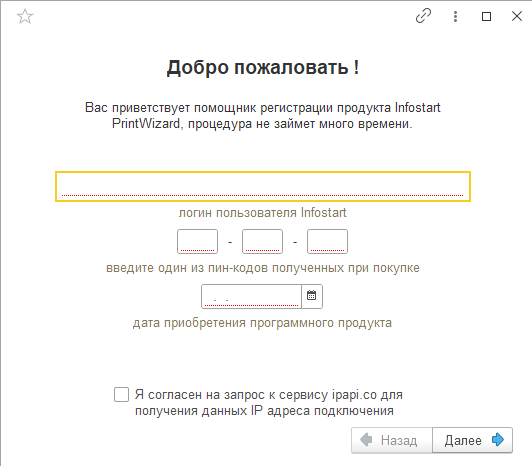
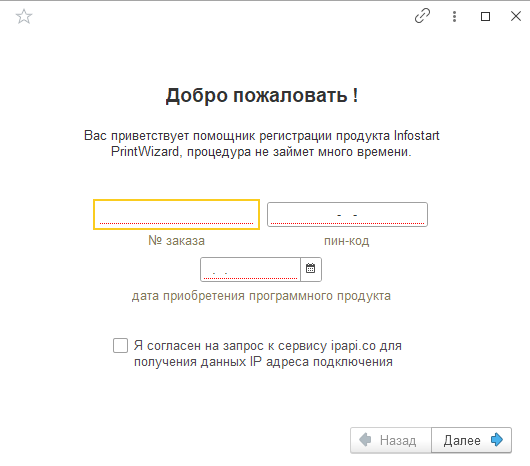
официальный релиз 1.1.1.1

diff --git a/docs/guide/ch_02_16.md b/docs/guide/ch_02_16.md
@@ -1,0 +1,45 @@
+---
+layout: default
+title: Сравнение макетов
+parent: Настройка макета
+grand_parent: Документация
+nav_order: 16
+--- 
+
+# Сравнение макетов
+
+Одна из проблем печатных форм созданных в режиме конфигуратора 1С (независимо от способа) является сложность сравнения. Причины сложности сравнения "обычных" печатных форм в следующем:
+
+* Невозможность сравнить данные из ИБ и параметры макета;
+* Шаблон печатной формы находится отдельно от методов сбора и/или вывода данных;
+
+PrintWizard лишен этих недостатков по той причине, что макет конструктора содержит всю информацию необходимую для макета внутри себя. При этом существует прямая связь между параметрами шаблона печатной формы и источником данных. 
+
+Также для удобного анализа макетов в PrintWizard разработана собственная форма сравнения макетов конструктора
+
+<p align="center">
+    <a href="./../img/ch_02/75_compare_form.png"><img src="./../img/ch_02/75_compare_form.png" style="width:700px"></a>
+    <br>Форма сравнения макетов PrintWizard
+</p>
+
+Сравнивать между собой можно:
+* макеты сохраненные в ИБ (в справочнике);
+* макеты сохраненные в файл в формате *.pdwx;
+* макеты внешних печатных форм (*.epf) полученных обработкой экспорта конструктора.
+
+Также механизм сравнения обладает дополнительным функционалом для анализа изменений:
+
+* форма для сравнения: текста запроса, кода алгоритмов, строковых значений;
+* форма для сравнения табличных документов.
+
+Единственный существенный недостаток, механизм сравнения не обладает возможностью объединения. Этот функционал планируется реализовать в будущем.
+
+<p align="center">
+    <a href="./../img/76_compare_query.png"><img src="./../img/ch_02/76_compare_query.png" style="width:700px"></a>
+    <br>Сравнение текста запроса
+</p>
+
+<p align="center">
+    <a href="./../img/77_compare_mxl.png"><img src="./../img/ch_02/77_compare_mxl.png" style="width:700px"></a>
+    <br>Сравнение табличных документов
+</p>

diff --git a/docs/guide/ch_09_01.md b/docs/guide/ch_09_01.md
@@ -31,7 +31,7 @@ has_children: false
 
 В окне регистрации необходимо ввести следующие данные:
 
-* логин пользователя на сайте Infostart.ru;
+* номер заказа на сайте Infostart.ru;
 * pin-код полученный при покупке программного продукта;
 * дата приобретения программного продукта;
 * установить галочку в согласии для обращения на сайт ipapi.co. Указанный сайт используется для получения данных об ip-адресе, с которого выполняется запрос на регистрацию.
@@ -78,13 +78,12 @@ has_children: false
 
 # Восстановление пин-кода
 
-Для восстановления пин-кода вам необходимо обратиться на почту vandalsvq@gmail.com.
+Для восстановления пин-кода вам необходимо обратиться в техническую поддержку продукта (на сайте infostart.ru).
 
 В письме необходимо указать:
 
+* номер заказа инфостарт;
 * пин-код полученный при покупке;
-* логин на сайте инфостарт;
-* дату покупки программного продукта (минимум месяц и год);
 * адрес электронной почты для отправки пин-кода;
 * телефон и контактное лицо для связи (при возникновении вопросов);
 * причину замены пин-кода.

diff --git a/docs/history/2023 - 1.1.1.х.md b/docs/history/2023 - 1.1.1.х.md
@@ -4,11 +4,14 @@ title:  "2023 - 1.1.1.х"
 parent: История версий
 ---
 
-# 1.1.1.1, 03.10.2023
+# 1.1.1.1, 05.10.2023
 
-* Существенно доработан механизм экспорта печатных форм в расширение или внешние печатные формы ([подробнее](../guide/ch_02_15.html))
+* Существенно доработан механизм экспорта печатных форм ([подробнее](../guide/ch_02_15.html))
   * добавлена возможность экспорта печатных форм в единое расширение
   * добавлена возможность сохранения настроек сборок расширений или внешних печатных форм
   * добавлена возможность хранения истории сборок расширений или внешних печатных форм
   * унифицирован механизм экспорта внешних печатных форм
+* Доработка механизма сравнения ([подробнее](../guide/ch_02_16.html))
+  * возможность сравнения данных вложенных структур и соответствий
+  * возможность сравнения с внешней печатной формой (полученной экспортом из конструктора)
 * Исправлены ошибки работы в веб-клиенте

diff --git a/docs/guide/ch_10_01.md b/docs/guide/ch_10_01.md
@@ -23,3 +23,12 @@ has_children: false
 * **Склонения**. Для выполнения склонений ФИО и др. представлений
 * **Префиксация объектов**. Для исключения префикса из номеров документов
 * **Генерация штрихкодов**. Для создания QR-кода
+
+# Работа в веб-клиенте
+
+Практически все механизмы конструктора поддерживают работу в веб-клиенте. Но в виду некоторых ограничений, существуют особенности:
+
+* отсутствует интеграция с Infostart Toolkit;
+* экспорт поддерживается только на сервере;
+* не поддерживается расширенное редактирование кода (подсказки, автодополнение и т.д.);
+* сравнение текстов запросов и кода алгоритмов отличается.

diff --git a/docs/guide/ch_02_15.md b/docs/guide/ch_02_15.md
@@ -3,7 +3,7 @@ layout: default
 title: Экспорт в файл
 parent: Настройка макета
 grand_parent: Документация
-nav_order: 12
+nav_order: 15
 --- 
 
 # Экспорт печатных форм
